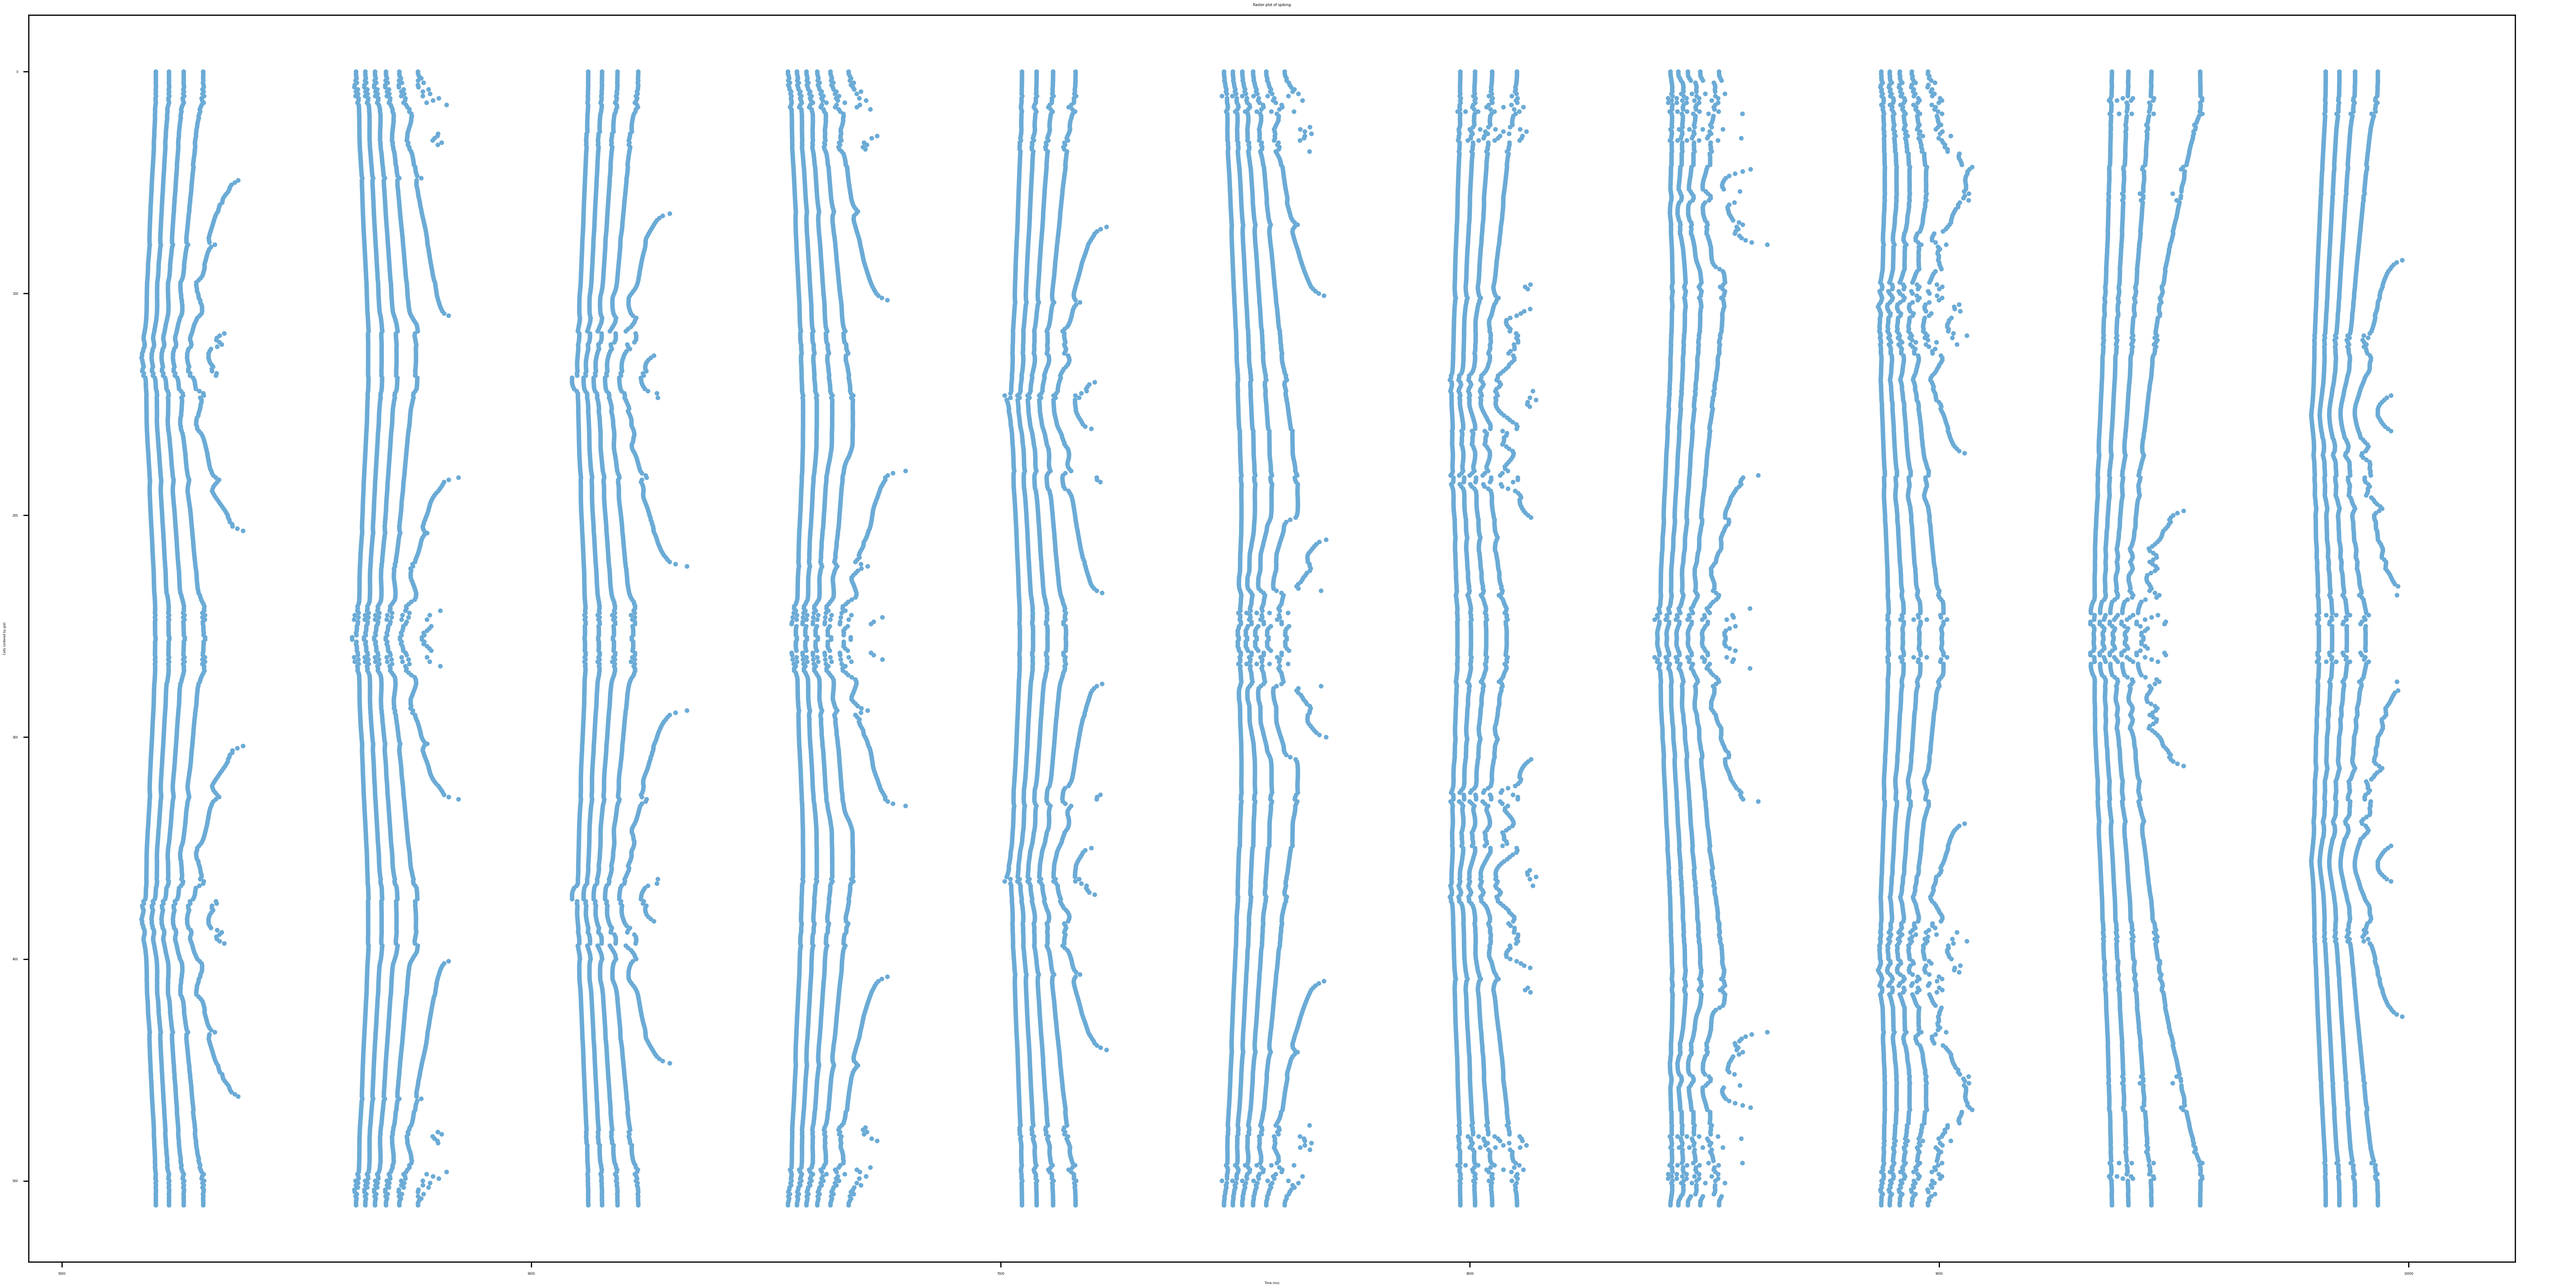
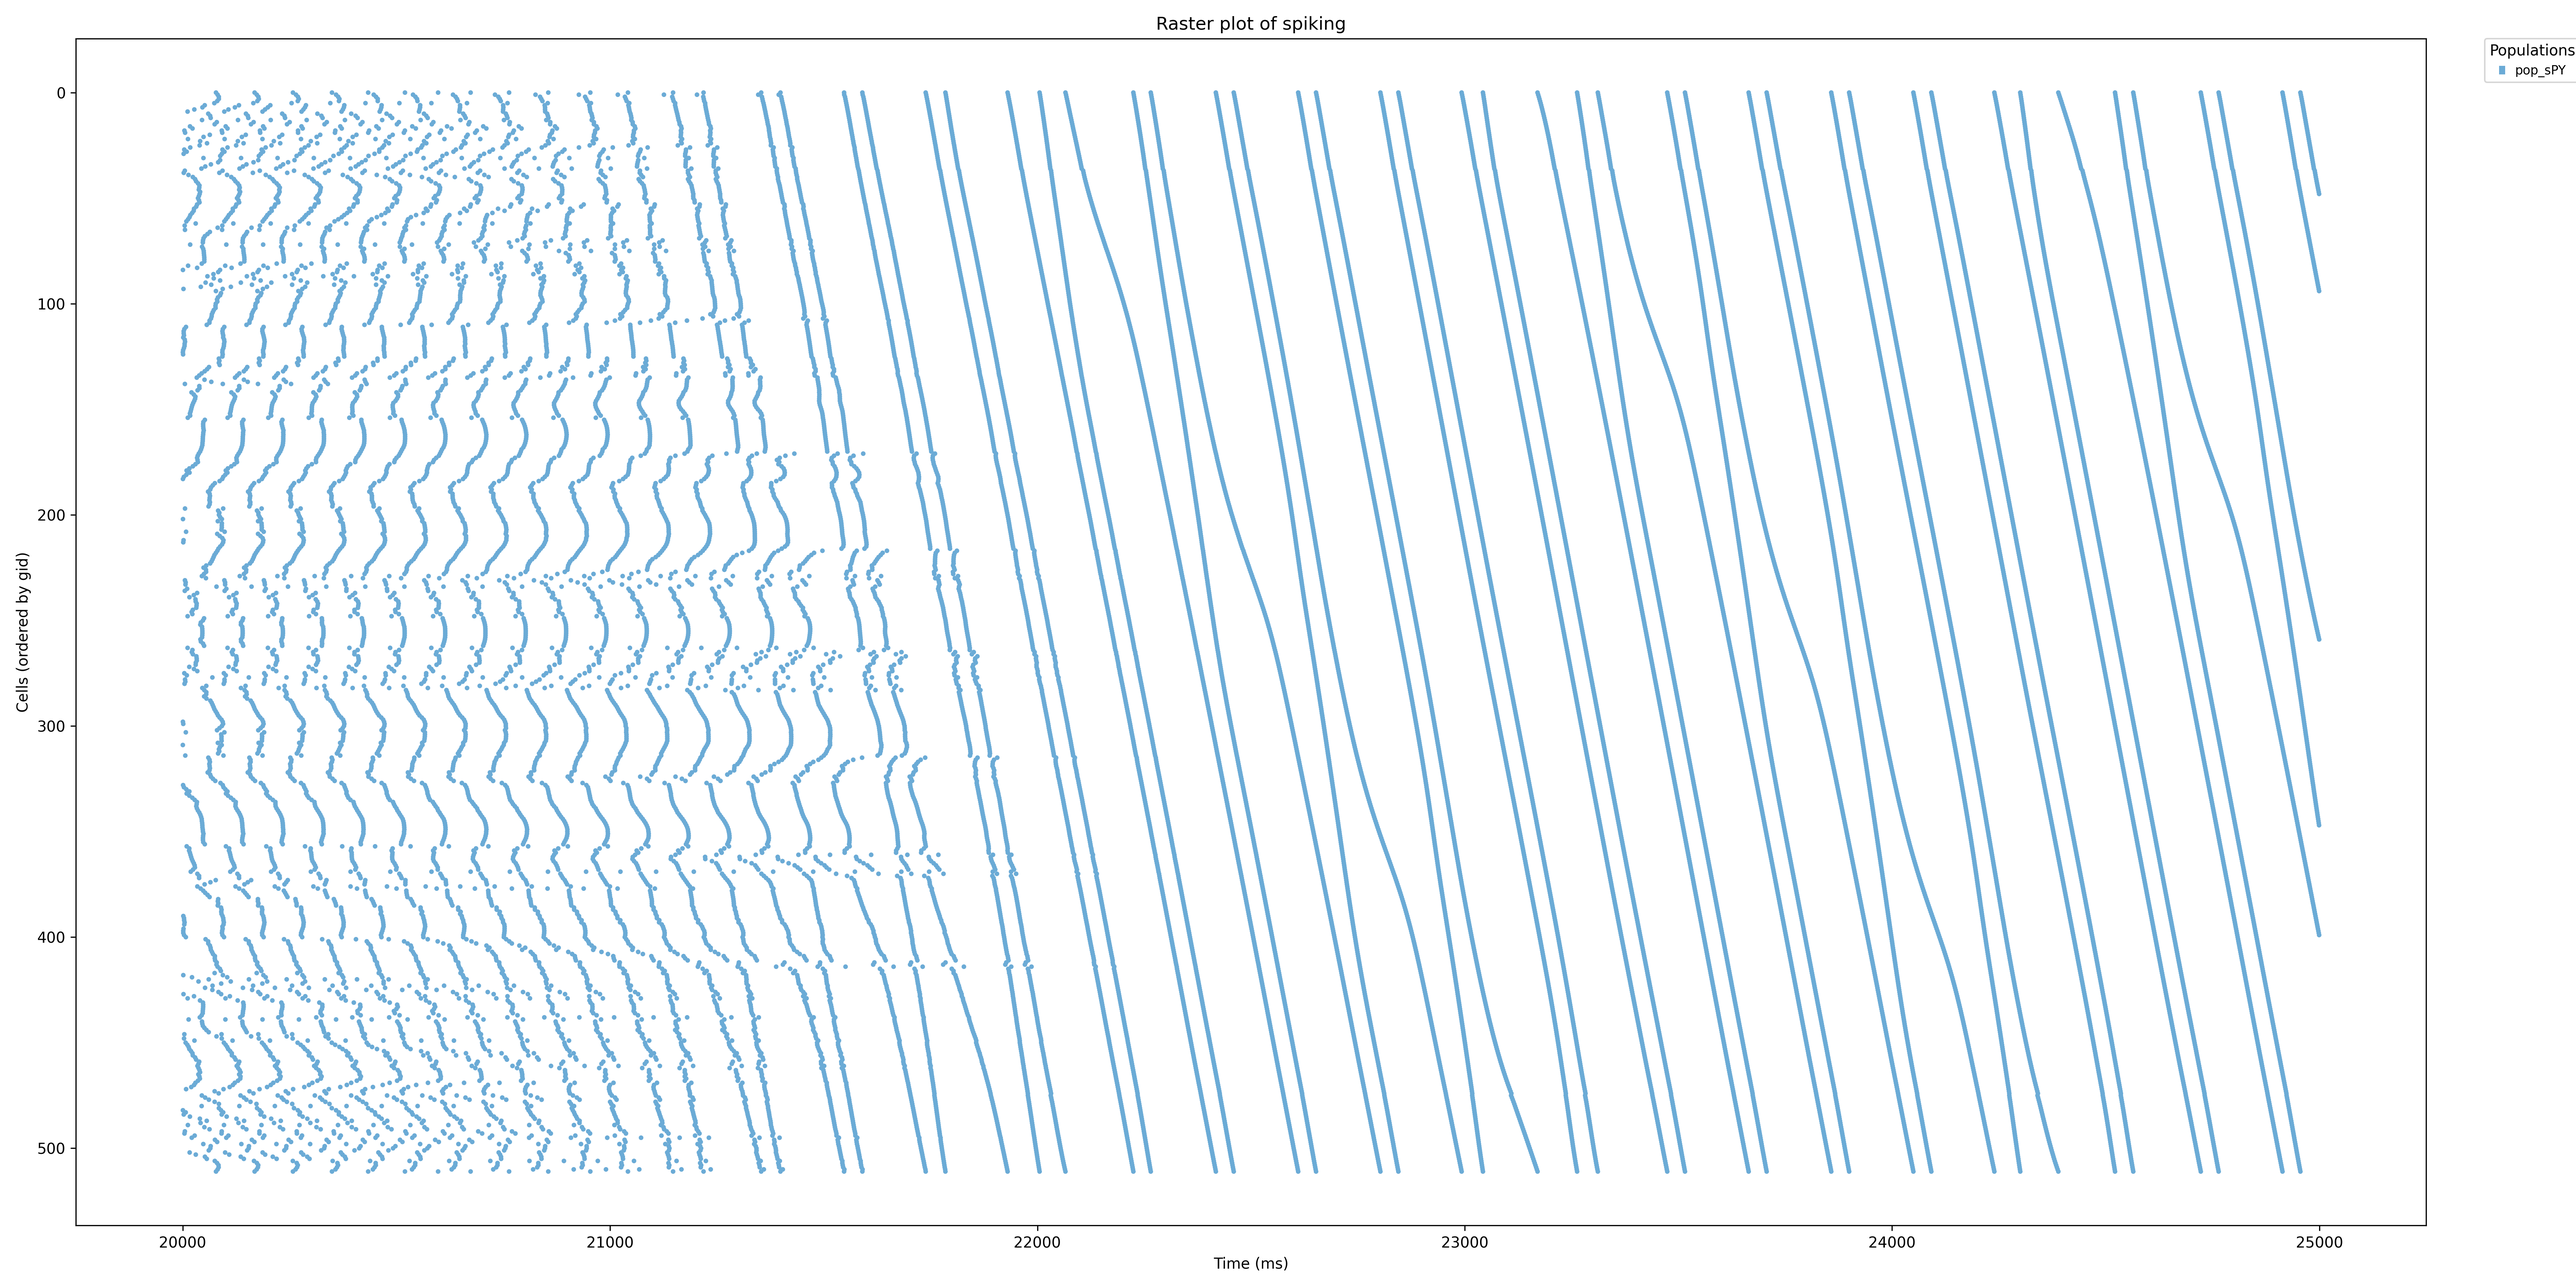
update

diff --git a/sim/cfg.py b/sim/cfg.py
@@ -27,7 +27,7 @@ rootFolder = os.getcwd()
 #------------------------------------------------------------------------------
 # Run parameters
 #------------------------------------------------------------------------------
-cfg.duration = 10000.0 ## Duration of the sim, in ms  
+cfg.duration = 25000.0 ## Duration of the sim, in ms  
 cfg.dt = 0.05
 # ~ cfg.seeds = {'conn': 4321, 'stim': 1234, 'loc': 4321} 
 cfg.hParams = {'celsius': 34, 'v_init': -65}  
@@ -52,7 +52,7 @@ cfg.allcells = ['sPY']
 
 cfg.cellNumber = 512
 cfg.gex = 0.0003 # default 0.0005
-cfg.n_neighbors = 42 #int(0.3 * cfg.cellNumber) # all conetions 
+cfg.n_neighbors = 36 #int(0.3 * cfg.cellNumber) # all conetions 
 cfg.amp = 0.170
 cfg.synapse_delay = cfg.dt #0.05 #1 #0.01
 
@@ -62,7 +62,7 @@ for cell in cfg.allcells:
 #------------------------------------------------------------------------------
 # Analysis and plotting 
 #------------------------------------------------------------------------------
-cfg.analysis['plotTraces'] = {'include': cfg.allpops, 'saveFig': True, 'showFig': False, 'oneFigPer':'trace', 'axis': False, 'subtitles':False,'timeRange': [cfg.duration-5000,cfg.duration], 'legend':False, 'overlay':False, 'figSize':(36, 24), 'fontSize':2}
+# cfg.analysis['plotTraces'] = {'include': cfg.allpops, 'saveFig': True, 'showFig': False, 'oneFigPer':'trace', 'axis': False, 'subtitles':False,'timeRange': [cfg.duration-5000,cfg.duration], 'legend':False, 'overlay':False, 'figSize':(36, 24), 'fontSize':2}
 cfg.analysis['plotRaster'] = {'include': cfg.allpops, 'saveFig': True, 'showFig': False, 'popRates': False, 'orderInverse': True, 'timeRange': [cfg.duration-5000,cfg.duration],'figSize': (24,12), 'lw': 0.3, 'markerSize':10, 'marker': '.', 'dpi': 300}
 
 #------------------------------------------------------------------------------
